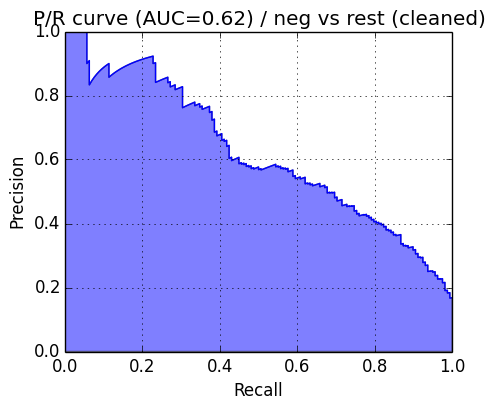
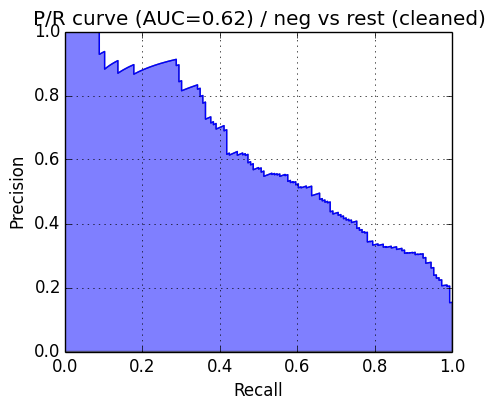
finished sentiment analysis

Changed region(s): [[0.1518, 0.0585, 0.5162, 0.4098], [0.5162, 0.3805, 0.8806, 0.6732], [0.8806, 0.6732, 0.9109, 0.7317]]

diff --git a/com/nastra/ml/chapter/06/sentiment_analysis_tweets_final.py b/com/nastra/ml/chapter/06/sentiment_analysis_tweets_final.py
@@ -1,0 +1,338 @@
+__author__ = 'nastra'
+#
+# This script trains tries to tweak hyperparameters to improve P/R AUC
+#
+
+from sklearn.base import BaseEstimator
+import numpy as np
+import nltk
+import re
+from utils import load_sent_word_net
+from sklearn.feature_extraction.text import TfidfVectorizer
+from sklearn.pipeline import Pipeline, FeatureUnion
+from sklearn.grid_search import GridSearchCV
+from sklearn.metrics import f1_score
+from sklearn.base import BaseEstimator
+from sklearn.metrics import precision_recall_curve, roc_curve, auc
+from sklearn.cross_validation import ShuffleSplit
+
+from sklearn.naive_bayes import MultinomialNB
+
+from utils import load_sent_word_net
+from utils import load_sanders_data
+from utils import log_false_positives
+from utils import plot_pr
+from utils import tweak_labels
+
+import json
+
+phase = "04"
+
+poscache_filename = "poscache.json"
+try:
+    poscache = json.load(open(poscache_filename, "r"))
+except IOError:
+    poscache = {}
+
+sent_word_net = load_sent_word_net()
+
+
+class LinguisticVectorizer(BaseEstimator):
+    def get_feature_names(self):
+        return np.array(['sent_neut', 'sent_pos', 'sent_neg',
+                         'nouns', 'adjectives', 'verbs', 'adverbs',
+                         'allcaps', 'exclamation', 'question'])
+
+    def fit(self, documents, y=None):
+        return self
+
+    def _get_sentiments(self, d):
+        # http://www.ling.upenn.edu/courses/Fall_2003/ling001/penn_treebank_pos.html
+        sent = tuple(nltk.word_tokenize(d))
+        if poscache is not None:
+            if d in poscache:
+                tagged = poscache[d]
+            else:
+                poscache[d] = tagged = nltk.pos_tag(sent)
+        else:
+            tagged = nltk.pos_tag(sent)
+
+        pos_vals = []
+        neg_vals = []
+
+        nouns = 0.
+        adjectives = 0.
+        verbs = 0.
+        adverbs = 0.
+
+        for w, t in tagged:
+            p, n = 0, 0
+            sent_pos_type = None
+            if t.startswith("NN"):
+                sent_pos_type = "n"
+                nouns += 1
+            elif t.startswith("JJ"):
+                sent_pos_type = "a"
+                adjectives += 1
+            elif t.startswith("VB"):
+                sent_pos_type = "v"
+                verbs += 1
+            elif t.startswith("RB"):
+                sent_pos_type = "r"
+                adverbs += 1
+
+            if sent_pos_type is not None:
+                sent_word = "%s/%s" % (sent_pos_type, w)
+
+                if sent_word in sent_word_net:
+                    p, n = sent_word_net[sent_word]
+
+            pos_vals.append(p)
+            neg_vals.append(n)
+
+        l = len(sent)
+        avg_pos_val = np.mean(pos_vals)
+        avg_neg_val = np.mean(neg_vals)
+
+        return [1 - avg_pos_val - avg_neg_val, avg_pos_val, avg_neg_val,
+                nouns / l, adjectives / l, verbs / l, adverbs / l]
+
+    def transform(self, documents):
+        obj_val, pos_val, neg_val, nouns, adjectives, verbs, adverbs = np.array(
+            [self._get_sentiments(d) for d in documents]).T
+
+        allcaps = []
+        exclamation = []
+        question = []
+
+        for d in documents:
+            allcaps.append(
+                np.sum([t.isupper() for t in d.split() if len(t) > 2]))
+
+            exclamation.append(d.count("!"))
+            question.append(d.count("?"))
+
+        result = np.array(
+            [obj_val, pos_val, neg_val, nouns, adjectives, verbs, adverbs, allcaps,
+             exclamation, question]).T
+
+        return result
+
+
+emo_repl = {
+    # positive emoticons
+    "&lt;3": " good ",
+    ":d": " good ", # :D in lower case
+    ":dd": " good ", # :DD in lower case
+    "8)": " good ",
+    ":-)": " good ",
+    ":)": " good ",
+    ";)": " good ",
+    "(-:": " good ",
+    "(:": " good ",
+
+    # negative emoticons:
+    ":/": " bad ",
+    ":&gt;": " sad ",
+    ":')": " sad ",
+    ":-(": " bad ",
+    ":(": " bad ",
+    ":S": " bad ",
+    ":-S": " bad ",
+}
+
+emo_repl_order = [k for (k_len, k) in reversed(
+    sorted([(len(k), k) for k in emo_repl.keys()]))]
+
+re_repl = {
+    r"\br\b": "are",
+    r"\bu\b": "you",
+    r"\bhaha\b": "ha",
+    r"\bhahaha\b": "ha",
+    r"\bdon't\b": "do not",
+    r"\bdoesn't\b": "does not",
+    r"\bdidn't\b": "did not",
+    r"\bhasn't\b": "has not",
+    r"\bhaven't\b": "have not",
+    r"\bhadn't\b": "had not",
+    r"\bwon't\b": "will not",
+    r"\bwouldn't\b": "would not",
+    r"\bcan't\b": "can not",
+    r"\bcannot\b": "can not",
+}
+
+
+def create_union_model(params=None):
+    def preprocessor(tweet):
+        tweet = tweet.lower()
+
+        for k in emo_repl_order:
+            tweet = tweet.replace(k, emo_repl[k])
+        for r, repl in re_repl.iteritems():
+            tweet = re.sub(r, repl, tweet)
+
+        return tweet.replace("-", " ").replace("_", " ")
+
+    tfidf_ngrams = TfidfVectorizer(preprocessor=preprocessor,
+                                   analyzer="word")
+    ling_stats = LinguisticVectorizer()
+    all_features = FeatureUnion(
+        [('ling', ling_stats), ('tfidf', tfidf_ngrams)])
+    #all_features = FeatureUnion([('tfidf', tfidf_ngrams)])
+    #all_features = FeatureUnion([('ling', ling_stats)])
+    clf = MultinomialNB()
+    pipeline = Pipeline([('all', all_features), ('clf', clf)])
+
+    if params:
+        pipeline.set_params(**params)
+
+    return pipeline
+
+
+def __grid_search_model(clf_factory, X, Y):
+    cv = ShuffleSplit(
+        n=len(X), n_iter=10, test_size=0.3, indices=True, random_state=0)
+
+    param_grid = dict(vect__ngram_range=[(1, 1), (1, 2), (1, 3)],
+                      vect__min_df=[1, 2],
+                      vect__smooth_idf=[False, True],
+                      vect__use_idf=[False, True],
+                      vect__sublinear_tf=[False, True],
+                      vect__binary=[False, True],
+                      clf__alpha=[0, 0.01, 0.05, 0.1, 0.5, 1],
+    )
+
+    grid_search = GridSearchCV(clf_factory(),
+                               param_grid=param_grid,
+                               cv=cv,
+                               score_func=f1_score,
+                               verbose=10)
+    grid_search.fit(X, Y)
+    clf = grid_search.best_estimator_
+    print clf
+
+    return clf
+
+
+def train_model(clf, X, Y, name="NB ngram", plot=False):
+    # create it again for plotting
+    cv = ShuffleSplit(
+        n=len(X), n_iter=10, test_size=0.3, indices=True, random_state=0)
+
+    train_errors = []
+    test_errors = []
+
+    scores = []
+    pr_scores = []
+    precisions, recalls, thresholds = [], [], []
+
+    clfs = []  # just to later get the median
+
+    for train, test in cv:
+        X_train, y_train = X[train], Y[train]
+        X_test, y_test = X[test], Y[test]
+
+        clf.fit(X_train, y_train)
+        clfs.append(clf)
+
+        train_score = clf.score(X_train, y_train)
+        test_score = clf.score(X_test, y_test)
+
+        train_errors.append(1 - train_score)
+        test_errors.append(1 - test_score)
+
+        scores.append(test_score)
+        proba = clf.predict_proba(X_test)
+
+        fpr, tpr, roc_thresholds = roc_curve(y_test, proba[:, 1])
+        precision, recall, pr_thresholds = precision_recall_curve(
+            y_test, proba[:, 1])
+
+        pr_scores.append(auc(recall, precision))
+        precisions.append(precision)
+        recalls.append(recall)
+        thresholds.append(pr_thresholds)
+
+    if plot:
+        scores_to_sort = pr_scores
+        median = np.argsort(scores_to_sort)[len(scores_to_sort) / 2]
+
+        plot_pr(pr_scores[median], name, phase, precisions[median],
+                recalls[median], label=name)
+
+        log_false_positives(clfs[median], X_test, y_test, name)
+
+    summary = (np.mean(scores), np.std(scores),
+               np.mean(pr_scores), np.std(pr_scores))
+    print "%.3f\t%.3f\t%.3f\t%.3f\t" % summary
+
+    return np.mean(train_errors), np.mean(test_errors)
+
+
+def print_incorrect(clf, X, Y):
+    Y_hat = clf.predict(X)
+    wrong_idx = Y_hat != Y
+    X_wrong = X[wrong_idx]
+    Y_wrong = Y[wrong_idx]
+    Y_hat_wrong = Y_hat[wrong_idx]
+    for idx in xrange(len(X_wrong)):
+        print "clf.predict('%s')=%i instead of %i" % \
+              (X_wrong[idx], Y_hat_wrong[idx], Y_wrong[idx])
+
+
+def get_best_model():
+    best_params = dict(all__tfidf__ngram_range=(1, 2),
+                       all__tfidf__min_df=1,
+                       all__tfidf__stop_words=None,
+                       all__tfidf__smooth_idf=False,
+                       all__tfidf__use_idf=False,
+                       all__tfidf__sublinear_tf=True,
+                       all__tfidf__binary=False,
+                       clf__alpha=0.01,
+    )
+
+    best_clf = create_union_model(best_params)
+
+    return best_clf
+
+
+if __name__ == "__main__":
+    X_orig, Y_orig = load_sanders_data()
+    #from sklearn.utils import shuffle
+    # print "shuffle, sample"
+    #X_orig, Y_orig = shuffle(X_orig, Y_orig)
+    #X_orig = X_orig[:100,]
+    #Y_orig = Y_orig[:100,]
+    classes = np.unique(Y_orig)
+    for c in classes:
+        print "#%s: %i" % (c, sum(Y_orig == c))
+
+    print "== Pos vs. neg =="
+    pos_neg = np.logical_or(Y_orig == "positive", Y_orig == "negative")
+    X = X_orig[pos_neg]
+    Y = Y_orig[pos_neg]
+    Y = tweak_labels(Y, ["positive"])
+    train_model(get_best_model(), X, Y, name="pos vs neg", plot=True)
+
+    print "== Pos/neg vs. irrelevant/neutral =="
+    X = X_orig
+    Y = tweak_labels(Y_orig, ["positive", "negative"])
+
+    # best_clf = grid_search_model(create_union_model, X, Y, name="sent vs
+    # rest", plot=True)
+    train_model(get_best_model(), X, Y, name="pos+neg vs rest", plot=True)
+
+    print "== Pos vs. rest =="
+    X = X_orig
+    Y = tweak_labels(Y_orig, ["positive"])
+    train_model(get_best_model(), X, Y, name="pos vs rest",
+                plot=True)
+
+    print "== Neg vs. rest =="
+    X = X_orig
+    Y = tweak_labels(Y_orig, ["negative"])
+    train_model(get_best_model(), X, Y, name="neg vs rest",
+                plot=True)
+
+    json.dump(poscache, open(poscache_filename, "w"))
+
